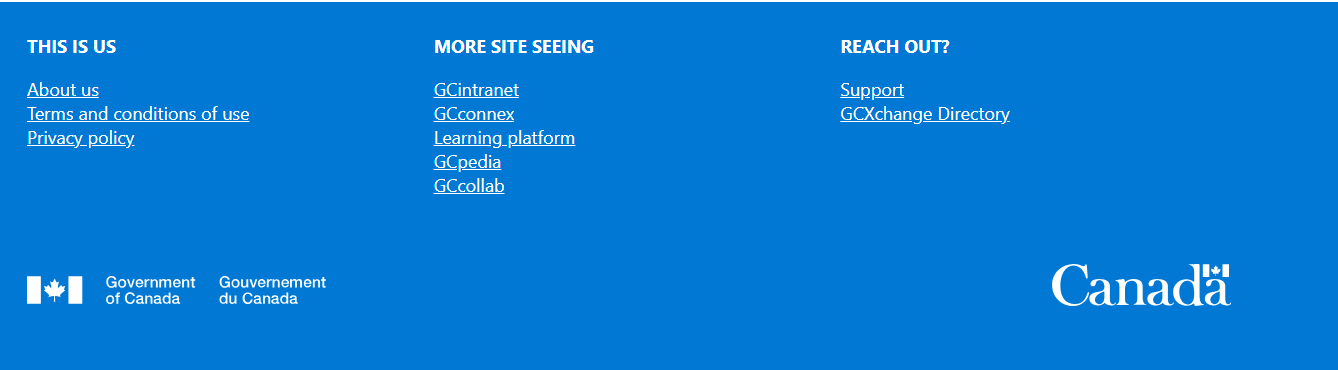
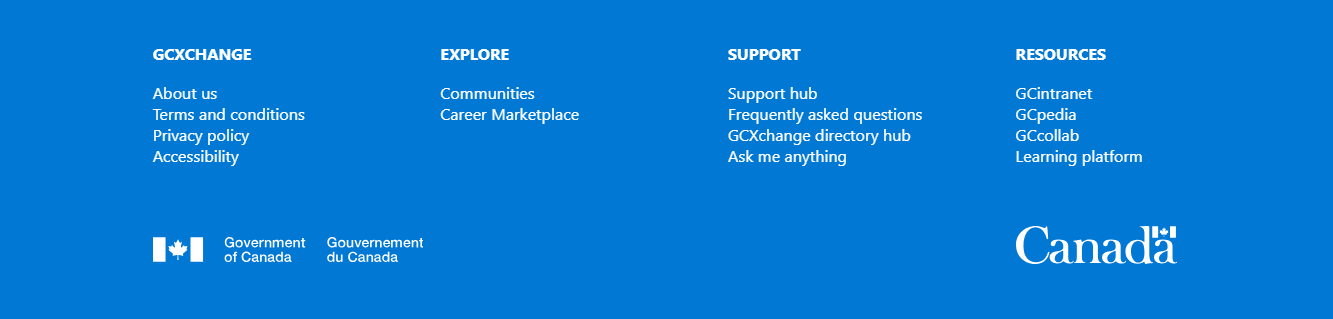
Merge pull request #63 from gcxchange-gcechange/ReadMe_Update
update instruction to heft and changed png

Pull request: update instruction to heft and changed png

diff --git a/README.md b/README.md
@@ -15,7 +15,7 @@ None
 
 ## Version 
 
-![SPFX](https://img.shields.io/badge/SPFX-1.17.4-green.svg)
+![SPFX](https://img.shields.io/badge/SPFX-1.22.2-green.svg)
 ![Node.js](https://img.shields.io/badge/Node.js-v16.3+-green.svg)
 
 ## Applies to
@@ -30,27 +30,30 @@ None
 Version|Date|Comments
 -------|----|--------
 1.0|Jun 22, 2021|Initial release
-1.0.1  | Aug 25, 2023 | Upgraded to SPFX 1.17.4
-2.0    | Sep 11, 2025 | Upgraded to SPFX 1.21.1
+1.0.1  | Aug 25, 2023  | Upgraded to SPFX 1.17.4
+2.0    | Sep 11, 2025  | Upgraded to SPFX 1.21.1
+2.1    | June 17, 2026 | Upgraded to SPFX 1.22.2
 
 
 ## Minimal Path to Awesome
-
 - Clone this repository
 - Ensure that you are at the solution folder
-- Ensure the current version of the Node.js (16.3+)
-- In the command-line run:
-  - **npm install**
-  - **gulp clean**
-  - **gulp serve**
+- To install the dependencies, in the command-line run:
+  - `npm install -g @rushstack/heft`
+  - `npm install`
 - To debug in the front end:
-  - go to the `serve.json` file and update `initialPage` to `https://domain-name.sharepoint.com/_layouts/15/workbench.aspx`
-  - Run the command **gulp serve**
-- To deploy: in the command-line run
-  - **gulp clean**
-  - **gulp bundle --ship**
-  - **gulp package-solution --ship**
-- Add the webpart to your tenant app store
+  - go to the `serve.json` file and update `initialPage` to `https://your-domain-name.sharepoint.com/_layouts/15/workbench.aspx`
+  - In the command-line run:
+    - `heft start`
+    - You will need to add your client id and azure function to the clientId and url classs members in the SCW.tsx file.
+- To deploy:
+  - In the command-line run:
+    - `heft build --production`
+    - `heft package-solution --production`
+  - Add the webpart to your tenant app store
+- Approve the web API permissions
+- Add the Webpart to a page
+- Modify the property pane according to your requirements
 
 ## Disclaimer
 